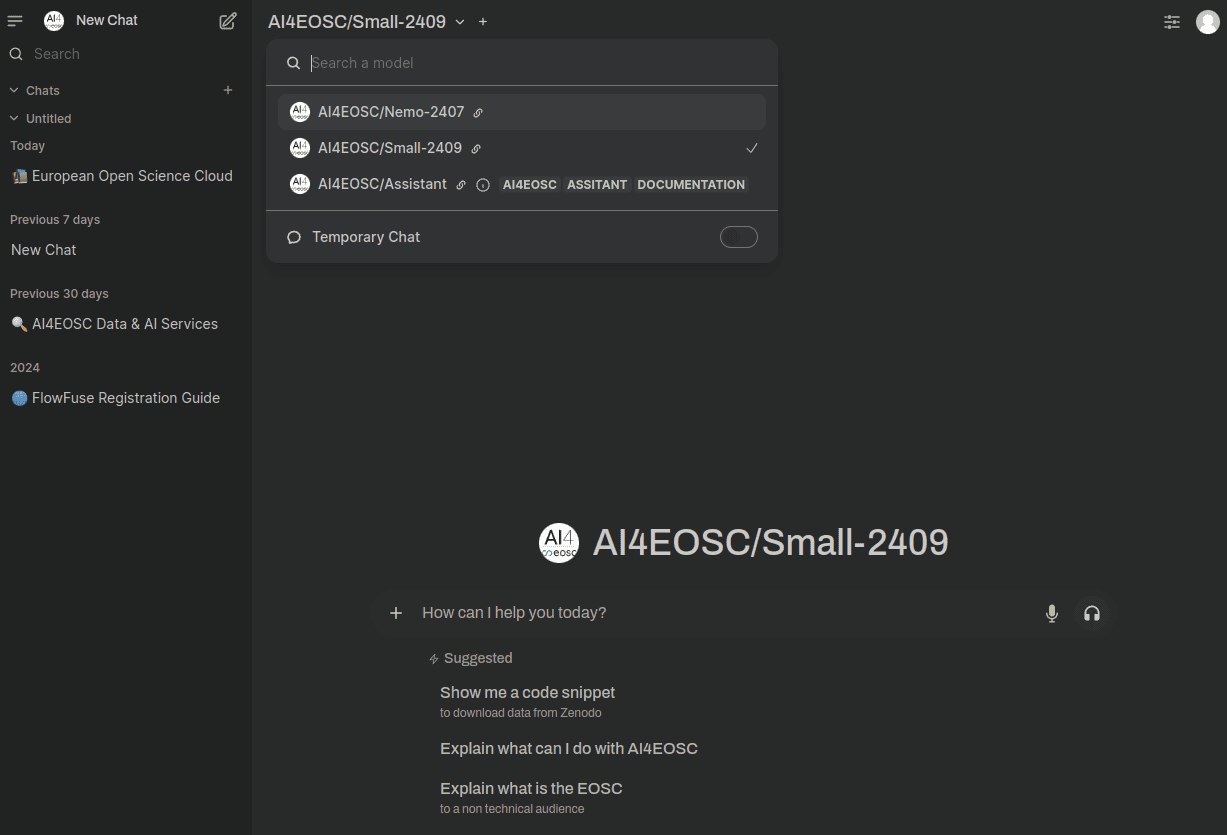
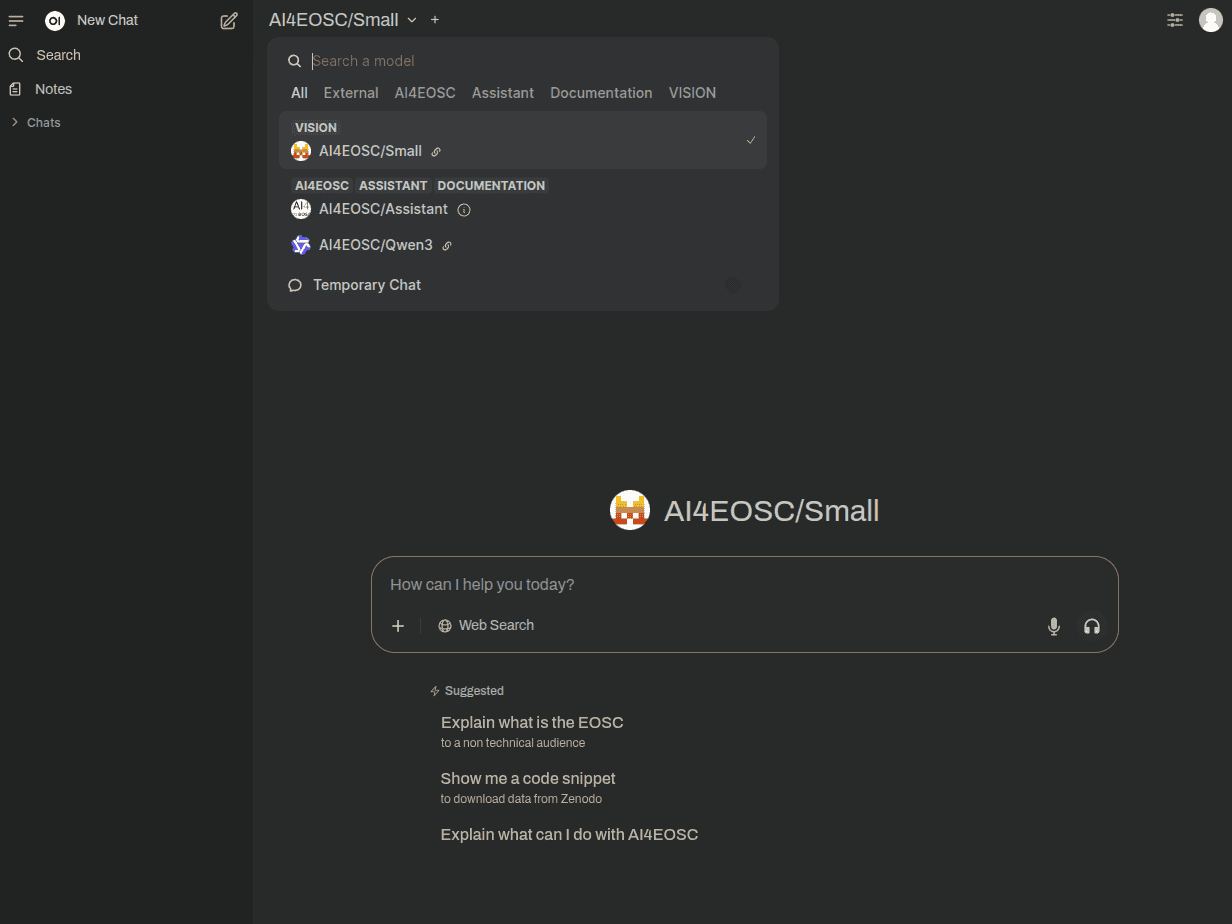
docs: update llm

diff --git a/source/reference/llm.rst b/source/reference/llm.rst
@@ -5,6 +5,10 @@ As part of the tool repertoire that the AI4OS stack is offering to increase our 
 
 We care about user privacy, so it's important to notice that your chat history will be erased whenever you delete it, and no data will be retained by the platform (`privacy policy <https://ai4eosc.eu/platform/privacy-policy/>`__).
 
+.. admonition:: Requirements
+   :class: info
+
+   🔓 You need a :doc:`platform account </getting-started/register>` with :ref:`basic access level <reference/user-access-levels:Basic access level>`.
 
 AI4OS LLM vs self-deployed LLM
 ------------------------------
@@ -34,12 +38,6 @@ The best of both worlds! 🚀
 
 Both options offer a **privacy-first** design: once your delete your chats or knowledge bases, the data is immediately wiped out from the platform.
 
-.. admonition:: Requirements
-   :class: info
-
-   🔓 You need a :doc:`platform account </getting-started/register>` with :ref:`basic access level <reference/user-access-levels:Basic access level>`.
-
-
 Login
 -----
 
@@ -54,12 +52,10 @@ Once you login, you will arrive to a landing page where you will be able to sele
 
 The current available models are:
 
-* ``Small-2409``: a medium-size model from the `Mistral family <https://mistral.ai/>`__ (22B parameters) with a smaller context window (32K tokens), released on September 2024.
-  This is the **default** model.
-* ``DeepSeek-R1-Distill-Llama-8B``: a small distillation (8B parameters) of the `original DeepSeek R1 model <https://huggingface.co/deepseek-ai/DeepSeek-R1>`__, released on January 2025.
-  The distillation is nowhere as performant as the original model, but it serves a nice demo of a thinking model.
-* ``Assistant``: our custom model designed to :ref:`help you navigate our documentation <reference/llm:Ask questions about the documentation>`,
-* ``Qwen2.5-VL-7B-Instruct``: a small model for vision related tasks, released in August 2024.
+* **Small**: a medium-size model from the `Mistral family <https://mistral.ai/>`__ (Mistral 3.1, 24B parameters).
+  This is the default model.
+* **Qwen 3**: a smaller model from the `Qwen family <https://huggingface.co/collections/Qwen/qwen3-67dd247413f0e2e4f653967f>`__ (14B parameters).
+* **Assistant**: our custom model designed to :ref:`help you navigate our documentation <reference/llm:Ask questions about the documentation>`,
 
 Now, let's explore some common usages of the tool. Keep in mind that the AI4OS LLM is built with `OpenWebUI <https://openwebui.com/>`__ so you always find further information in `their documentation <https://docs.openwebui.com/>`__.
 
@@ -97,7 +93,7 @@ In the upper left corner, you can select the ``AI4EOSC/Assistant`` model to ask 
 Use Vision models
 ^^^^^^^^^^^^^^^^^
 
-If you select the ``Qwen2.5-VL-7B-Instruct``, you can upload images to the model and ask questions about them.
+In the model menu, select any model with the ``VISION`` tag. Then you will be able to upload images to the model and ask questions about them.
 To upload an image click the :material-outlined:`add_circle;1.5em` and you will be offered the possibility of either :material-outlined:`add_a_photo;1.5em` ``Capture`` an image or :material-outlined:`upload_file;1.5em` ``Upload`` an image.
 
 Here are some ideas on how to incorporate this into a scientific workflow:
@@ -114,7 +110,7 @@ Here are some ideas on how to incorporate this into a scientific workflow:
 
    .. figure:: /_static/images/llm/vision-mermaid.png
 
-Do you use it in other ways? `We are happy to hear! <https://github.com/ai4os/ai4-docs/issues/new>`__
+Do you use it in other ways? `We are happy to hear! <https://community.cloud.ai4eosc.eu/>`__
 
 
 
